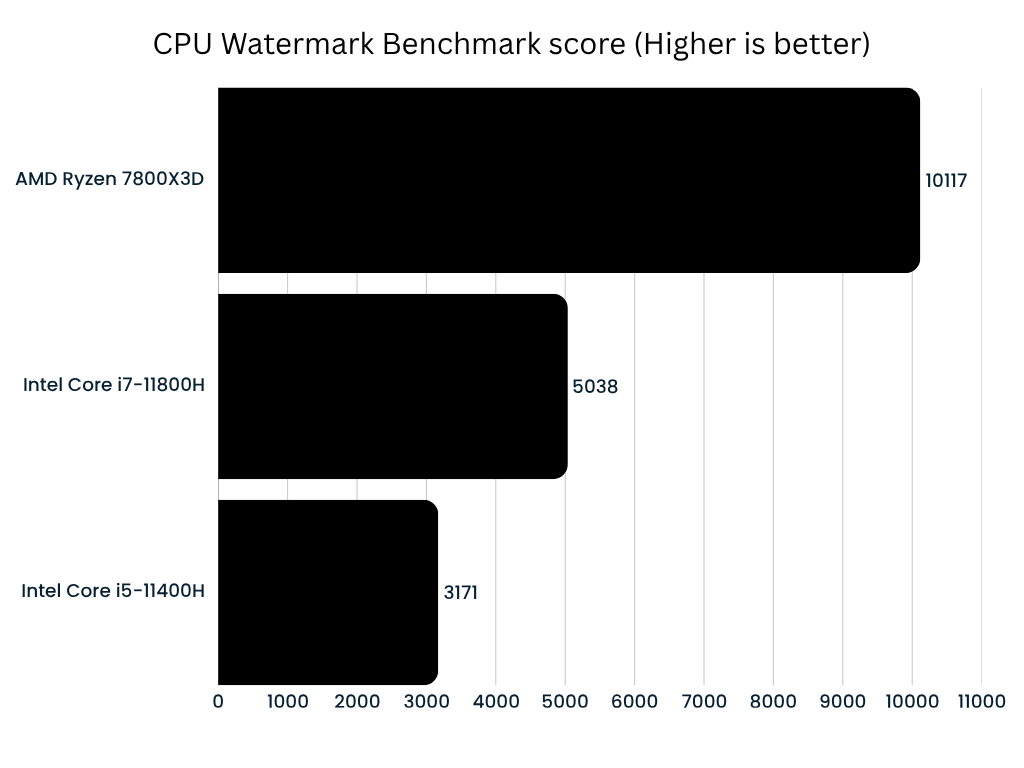
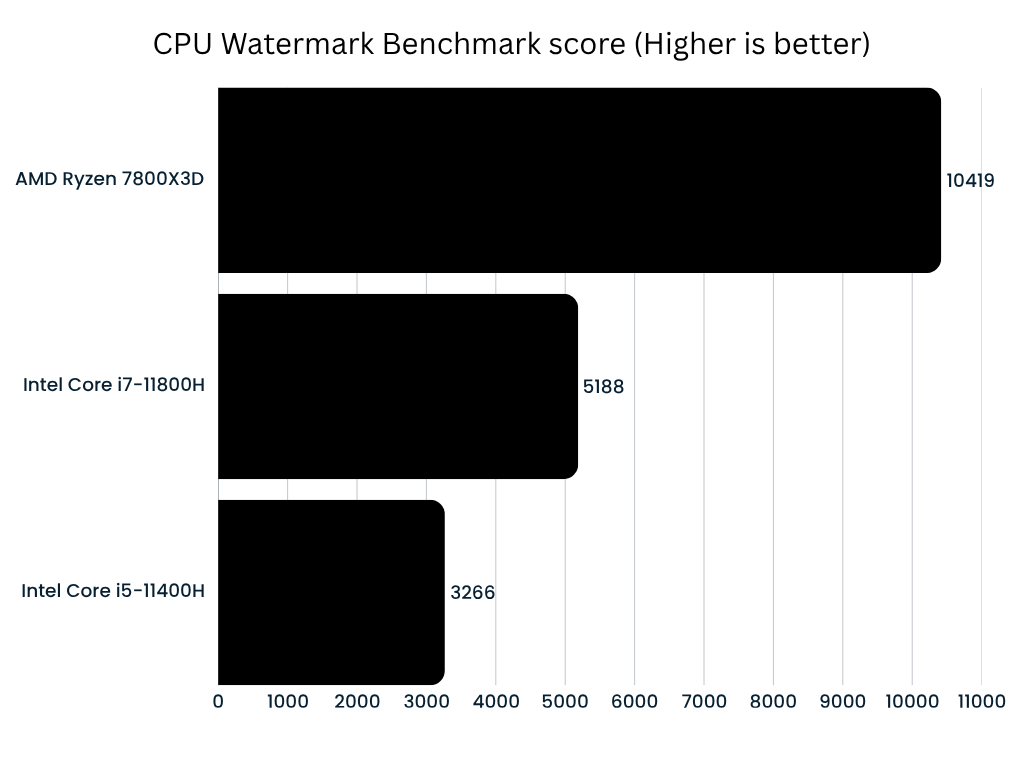
CPU: remove dead code, update benchmarks

Changed region(s): [[0.875, 0.0938, 0.9688, 0.375], [0.5312, 0.375, 0.625, 0.625], [0.4062, 0.6562, 0.5, 0.9062]]

diff --git a/Watermarking-Impl/WatermarkEigen.hpp b/Watermarking-Impl/WatermarkEigen.hpp
@@ -22,8 +22,6 @@ class WatermarkEigen final : public WatermarkBase {
   private:
     enum class Op { ADD, SUB };
 
-    static constexpr bool maskCalcRequired = true;
-    static constexpr bool maskCalcNotRequired = false;
     static constexpr int pSquared = p * p;
     static constexpr int pad = p / 2;
     static constexpr int localSize = pSquared - 1;
@@ -64,30 +62,28 @@ class WatermarkEigen final : public WatermarkBase {
         const auto& watermarkedBuffer = inputImage.getGray();
         const auto& w = randomMatrix.getGray();
         if (maskType == MaskMethod::NVF) {
-            if (!computePredictionErrorData<maskCalcNotRequired>(watermarkedBuffer))
+            if (!computePredictionErrorData(watermarkedBuffer))
                 return 0.0f;
             computeCustomMask(watermarkedBuffer);
             u = mask * w;
         } else {
             // ME detect uses fused computations
-            const auto maxAbsOpt = computePredictionErrorData<maskCalcNotRequired>(watermarkedBuffer);
+            const auto maxAbsOpt = computePredictionErrorData(watermarkedBuffer);
             if (!maxAbsOpt)
                 return 0.0f;
 
             const float invMax = (*maxAbsOpt > 0.0f) ? (1.0f / *maxAbsOpt) : 0.0f;
 #pragma omp parallel for
-            for (auto i = 0; i < u.size(); i++)
+            for (int i = 0; i < u.size(); i++)
                 u(i) = std::abs(errorSequence(i)) * invMax * w(i);
         }
         computeErrorSequence(u, filteredEstimation);
         // optimized and fused correlation calculation using Eigen and OpenMP
-        float globalDot = 0.0;
-        float globalSqEz = 0.0;
-        float globalSqEu = 0.0;
+        float globalDot = 0.0f;
+        float globalSqEz = 0.0f;
+        float globalSqEu = 0.0f;
         const float* ezPtr = errorSequence.data();
         const float* euPtr = filteredEstimation.data();
-        const auto totalPixels = errorSequence.size();
-
 #pragma omp parallel reduction(+ : globalDot, globalSqEz, globalSqEu)
         {
             const int numThreads = omp_get_num_threads();
@@ -96,8 +92,8 @@ class WatermarkEigen final : public WatermarkBase {
             const auto start = tid * chunkSize;
             const auto actualSize = (tid == numThreads - 1) ? (totalPixels - start) : chunkSize;
             if (actualSize > 0) {
-                Map<const VectorXf> ezVec(ezPtr + start, actualSize);
-                Map<const VectorXf> euVec(euPtr + start, actualSize);
+                const Map<const VectorXf> ezVec(ezPtr + start, actualSize);
+                const Map<const VectorXf> euVec(euPtr + start, actualSize);
                 globalDot += ezVec.dot(euVec);
                 globalSqEz += ezVec.squaredNorm();
                 globalSqEu += euVec.squaredNorm();
@@ -145,7 +141,8 @@ class WatermarkEigen final : public WatermarkBase {
         if (hasCenterRegion) {
 #pragma omp parallel for
             for (int j = startCol; j < endCol; j++) {
-                double sum = 0.0, sumSq = 0.0;
+                double sum = 0.0;
+                double sumSq = 0.0;
                 for (int jj = -pad; jj <= pad; jj++)
                     for (int ii = -pad; ii <= pad; ii++)
                         computeCustomMaskSums<Op::ADD>(image(pad + ii, j + jj), sum, sumSq);
@@ -169,7 +166,8 @@ class WatermarkEigen final : public WatermarkBase {
 #pragma omp for collapse(2) nowait
                 for (int j = cStart; j < cEnd; j++) {
                     for (int i = rStart; i < rEnd; i++) {
-                        double sum = 0.0, sumSq = 0.0;
+                        double sum = 0.0;
+                        double sumSq = 0.0;
                         // for borders, we cannot slide, so we do the full O(p^2) sum
                         for (int jj = -pad; jj <= pad; jj++) {
                             for (int ii = -pad; ii <= pad; ii++) {
@@ -252,7 +250,7 @@ class WatermarkEigen final : public WatermarkBase {
             }
         } else {
             // ME: skip mask creation entirely, populate errorSequence and its max abs, fuse (abs(e)*invMax)*w
-            const auto maxAbsOpt = computePredictionErrorData<maskCalcNotRequired>(inputImage);
+            const auto maxAbsOpt = computePredictionErrorData(inputImage);
             if (!maxAbsOpt || *maxAbsOpt <= 0.0f)
                 return std::nullopt;
             const float invMax = 1.0f / *maxAbsOpt;
@@ -272,7 +270,6 @@ class WatermarkEigen final : public WatermarkBase {
 
     // compute Prediction error data (coefficients, error sequence), and if needed, prediction error mask,
     // returns the max absolute value of the computed error sequence
-    template <bool maskNeeded>
     std::optional<float> computePredictionErrorData(const ArrayXXf& image) {
         meMatrixData.setZero();
         // process CENTER region
@@ -312,17 +309,8 @@ class WatermarkEigen final : public WatermarkBase {
         // solve system and coefficients
         if (!meMatrixData.computeCoefficients())
             return std::nullopt;
-
         // calculate ex(i,j) AND its max abs in a single fused pass
-        const float maxAbs = computeErrorSequence(image, errorSequence);
-        if constexpr (maskNeeded) {
-            // single pass instead of two: maxCoeff is already known, just normalize
-            if (maxAbs > 0.0f)
-                mask = errorSequence.abs() / maxAbs;
-            else
-                mask.setZero();
-        }
-        return maxAbs;
+        return computeErrorSequence(image, errorSequence);
     }
 
     // computes the prediction error sequence of the input image and returns its max abs value,
